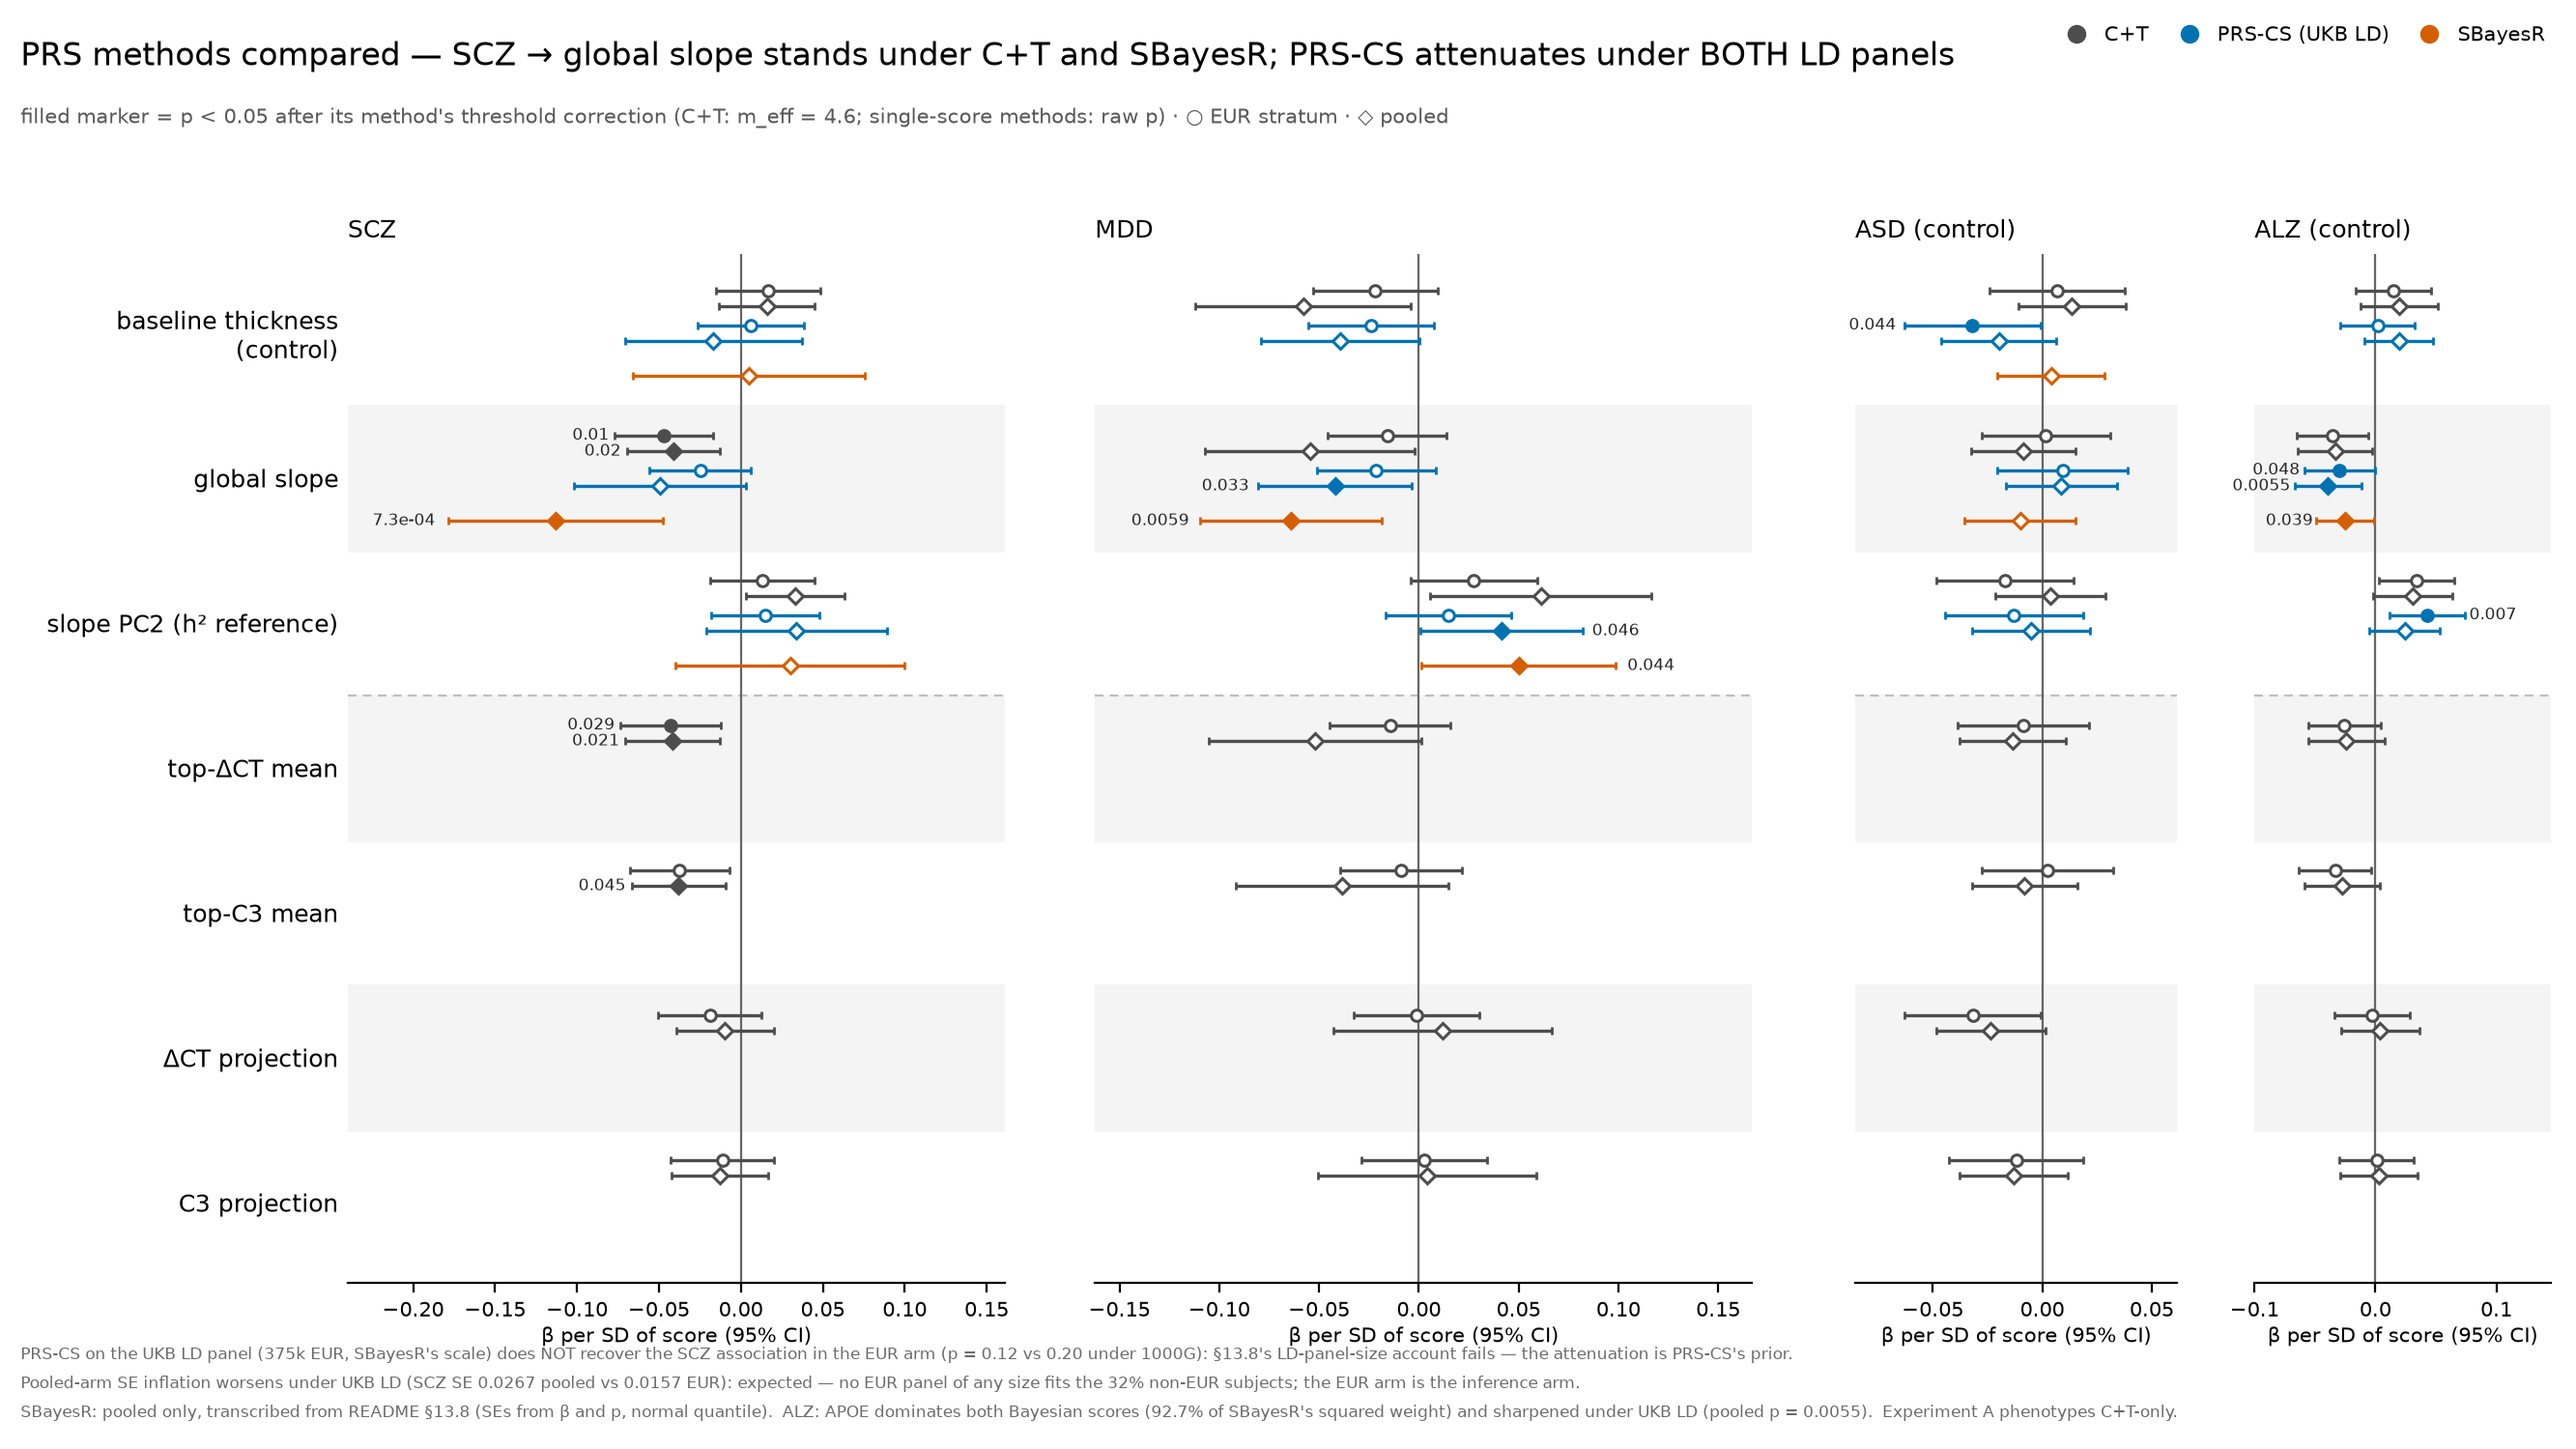
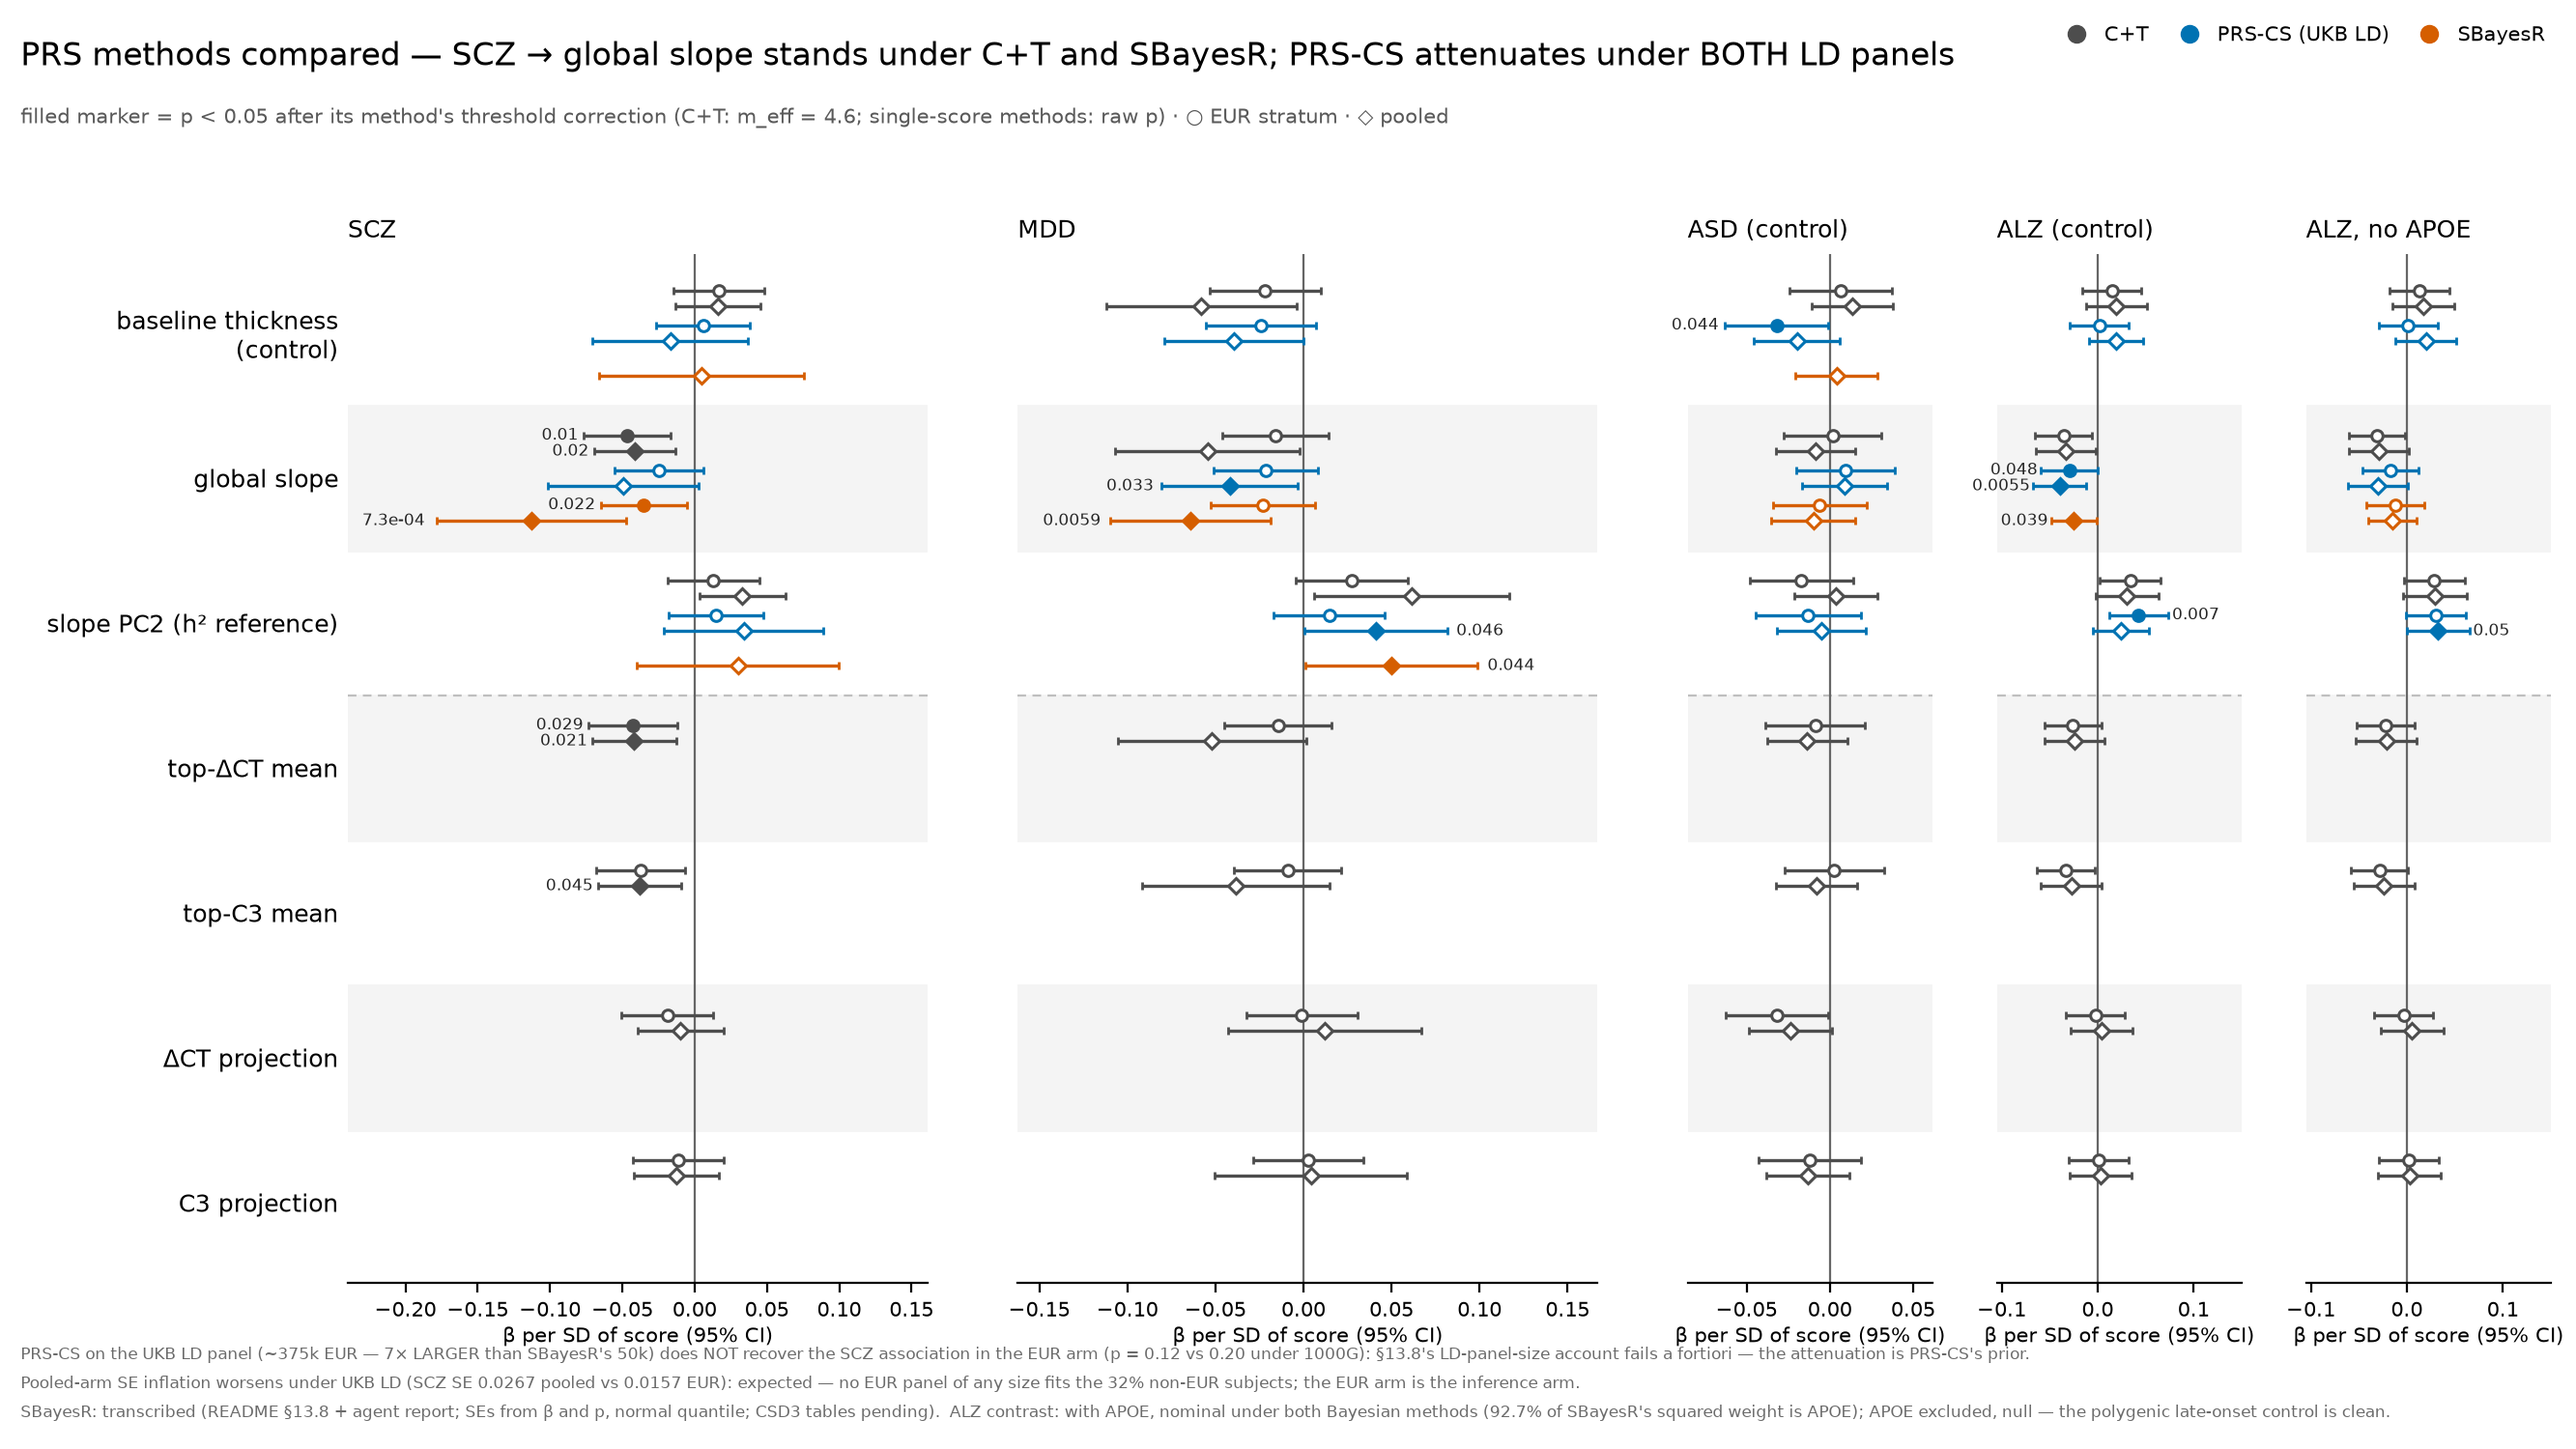
hpc_v3: methods slide gains SBayesR EUR arm and the ALZ / ALZ-no-APOE contrast
Resolves the apparent discrepancy with the cluster agent's onset-gradient
table: the numbers agree cell for cell; the two figures differed in WHICH ALZ
score they showed (with APOE: nominal under both Bayesian methods; APOE
excluded: null) and in SBayesR coverage (their tables carry the EUR arm --
SCZ -> global_slope beta=-0.035, p=0.022, significant in the ancestry-matched
arm). Both now on the slide: a fifth panel puts ALZ-with-APOE and
ALZ-no-APOE side by side so the specificity question is the visible contrast
rather than a framing choice, and the SBayesR EUR values (+ ALZnoAPOE rows)
extend prs_sbayesr_readme.tsv with a source column separating the README 13.8
transcription from the agent's 2026-09-09 report. Real sbayesr/ tables still
wanted to retire the transcription entirely.

Also corrects the previous commit's footnote: PRS-CS's UKB panel (~375k) is
~7x LARGER than SBayesR's 50k shrunk-sparse reference, not 'matching' it --
which makes the panel-size falsification a fortiori, and the wording now says
so (flagged in review).

Caution recorded on the onset-age-gradient reading (SCZ > MDD > ALZnoAPOE ~
ASD): per-SD betas scale with discovery-GWAS power, and SCZ > MDD > ASD is
also the discovery-power ordering. The gradient is consistent with the
hypothesis but does not discriminate it from power until effects are put on
a liability scale or discovery N is equalised.

diff --git a/hpc_v3/slide_prs_methods.py b/hpc_v3/slide_prs_methods.py
@@ -72,28 +72,32 @@ def load() -> pd.DataFrame:
         rows.append(dict(method="ct", disorder=r.disorder, stratum=r.stratum,
                          phenotype=r.phenotype, beta=r.beta, se=r.se,
                          p=r.p, p_corr=min(1.0, r.p * M_EFF), n=r.n))
-    for method, d, suffix in (
-            ("prscs_ukbb", REPO / UKBB_DIR, "prscs_ukbb"),):
-        for dis in ("SCZ", "MDD", "ASD", "ALZ"):
-            f = d / f"prs_association_{dis}_{suffix}.tsv"
-            if not f.exists():
-                continue
-            cs = pd.read_csv(f, sep="\t")
-            cs = cs[cs.disorder == dis]
-            for _, r in cs.iterrows():
-                rows.append(dict(method=method, disorder=dis,
-                                 stratum=r.stratum, phenotype=r.phenotype,
-                                 beta=r.beta, se=r.se, p=r.p, p_corr=r.p,
-                                 n=r.n))
-    # SBayesR: README transcription is POOLED only -- no EUR rows until the
-    # real association tables are committed
+    # UKB-LD PRS-CS; note the cluster's filename inconsistency for ALZnoAPOE,
+    # whose file also tags the disorder column 'ALZnoAPOEukbb'
+    ukbb_files = {"SCZ": "prs_association_SCZ_prscs_ukbb.tsv",
+                  "MDD": "prs_association_MDD_prscs_ukbb.tsv",
+                  "ASD": "prs_association_ASD_prscs_ukbb.tsv",
+                  "ALZ": "prs_association_ALZ_prscs_ukbb.tsv",
+                  "ALZnoAPOE": "prs_association_ALZnoAPOE_ukbb.tsv"}
+    for dis, fname in ukbb_files.items():
+        f = REPO / UKBB_DIR / fname
+        if not f.exists():
+            continue
+        cs = pd.read_csv(f, sep="\t")
+        for _, r in cs.iterrows():
+            rows.append(dict(method="prscs_ukbb", disorder=dis,
+                             stratum=r.stratum, phenotype=r.phenotype,
+                             beta=r.beta, se=r.se, p=r.p, p_corr=r.p, n=r.n))
+    # SBayesR: transcription of README 13.8 (pooled) + the cluster agent's
+    # 2026-09-09 report (EUR arm, ALZnoAPOE) -- see the tsv's source column;
+    # replace with results_v2/sbayesr/ tables when committed
     sb = pd.read_csv(REPO / "hpc_v3/prs_tables/prs_sbayesr_readme.tsv",
                      sep="\t")
     for _, r in sb.iterrows():
         se = abs(r.beta) / norm.ppf(1 - r.p / 2)
         rows.append(dict(method="sbayesr", disorder=r.disorder,
-                         stratum="full", phenotype=r.phenotype, beta=r.beta,
-                         se=se, p=r.p, p_corr=r.p, n=np.nan))
+                         stratum=r.stratum, phenotype=r.phenotype,
+                         beta=r.beta, se=se, p=r.p, p_corr=r.p, n=np.nan))
     return pd.DataFrame(rows)
 
 
@@ -162,16 +166,20 @@ def draw() -> Path:
              "raw p) · ○ EUR stratum · ◇ pooled", fontsize=SMALL,
              color="0.35")
 
-    panel(fig, [0.135, 0.115, 0.255, 0.71], df[df.disorder == "SCZ"],
+    panel(fig, [0.135, 0.115, 0.225, 0.71], df[df.disorder == "SCZ"],
           PHENOS, YLAB, "SCZ", True)
-    panel(fig, [0.425, 0.115, 0.255, 0.71], df[df.disorder == "MDD"],
+    panel(fig, [0.395, 0.115, 0.225, 0.71], df[df.disorder == "MDD"],
           PHENOS, YLAB, "MDD", False)
     # controls share the same 7-row grid so rows align across all panels;
-    # points exist only where the disorder was scored on that phenotype
-    panel(fig, [0.72, 0.115, 0.125, 0.71], df[df.disorder == "ASD"],
+    # points exist only where the disorder was scored on that phenotype.
+    # ALZ appears twice: with APOE (nominally significant, ~one locus) and
+    # with APOE excluded (null) -- the specificity question is the contrast.
+    panel(fig, [0.655, 0.115, 0.095, 0.71], df[df.disorder == "ASD"],
           PHENOS, YLAB, "ASD (control)", False)
-    panel(fig, [0.875, 0.115, 0.115, 0.71], df[df.disorder == "ALZ"],
-          PHENOS, YLAB, "ALZ (control)", False, xlim=(-0.10, 0.145))
+    panel(fig, [0.775, 0.115, 0.095, 0.71], df[df.disorder == "ALZ"],
+          PHENOS, YLAB, "ALZ (control)", False, xlim=(-0.105, 0.15))
+    panel(fig, [0.895, 0.115, 0.095, 0.71], df[df.disorder == "ALZnoAPOE"],
+          PHENOS, YLAB, "ALZ, no APOE", False, xlim=(-0.105, 0.15))
 
     present = [m for m in METHODS if (df.method == m).any()]
     handles = [mpl.lines.Line2D([], [], color=METHOD_COLOR[m], marker="o",
@@ -182,10 +190,11 @@ def draw() -> Path:
                fontsize=SMALL, handletextpad=0.4, columnspacing=1.0)
 
     fig.text(0.008, 0.062,
-             "PRS-CS on the UKB LD panel (375k EUR, SBayesR's scale) does "
-             "NOT recover the SCZ association in the EUR arm (p = 0.12 vs "
-             "0.20 under 1000G): §13.8's LD-panel-size account fails — the "
-             "attenuation is PRS-CS's prior.",
+             "PRS-CS on the UKB LD panel (~375k EUR — 7× LARGER than "
+             "SBayesR's 50k) does NOT recover the SCZ association in the "
+             "EUR arm (p = 0.12 vs 0.20 under 1000G): §13.8's "
+             "LD-panel-size account fails a fortiori — the attenuation is "
+             "PRS-CS's prior.",
              fontsize=SMALL - 1.5, color="0.42")
     fig.text(0.008, 0.042,
              "Pooled-arm SE inflation worsens under UKB LD (SCZ SE 0.0267 "
@@ -194,10 +203,11 @@ def draw() -> Path:
              "arm.",
              fontsize=SMALL - 1.5, color="0.42")
     fig.text(0.008, 0.022,
-             "SBayesR: pooled only, transcribed from README §13.8 (SEs from "
-             "β and p, normal quantile).  ALZ: APOE dominates both Bayesian "
-             "scores (92.7% of SBayesR's squared weight) and sharpened under "
-             "UKB LD (pooled p = 0.0055).  Experiment A phenotypes C+T-only.",
+             "SBayesR: transcribed (README §13.8 + agent report; SEs from β "
+             "and p, normal quantile; CSD3 tables pending).  ALZ contrast: "
+             "with APOE, nominal under both Bayesian methods (92.7% of "
+             "SBayesR's squared weight is APOE); APOE excluded, null — the "
+             "polygenic late-onset control is clean.",
              fontsize=SMALL - 1.5, color="0.42")
 
     out = HERE / "slide_prs_methods.png"
